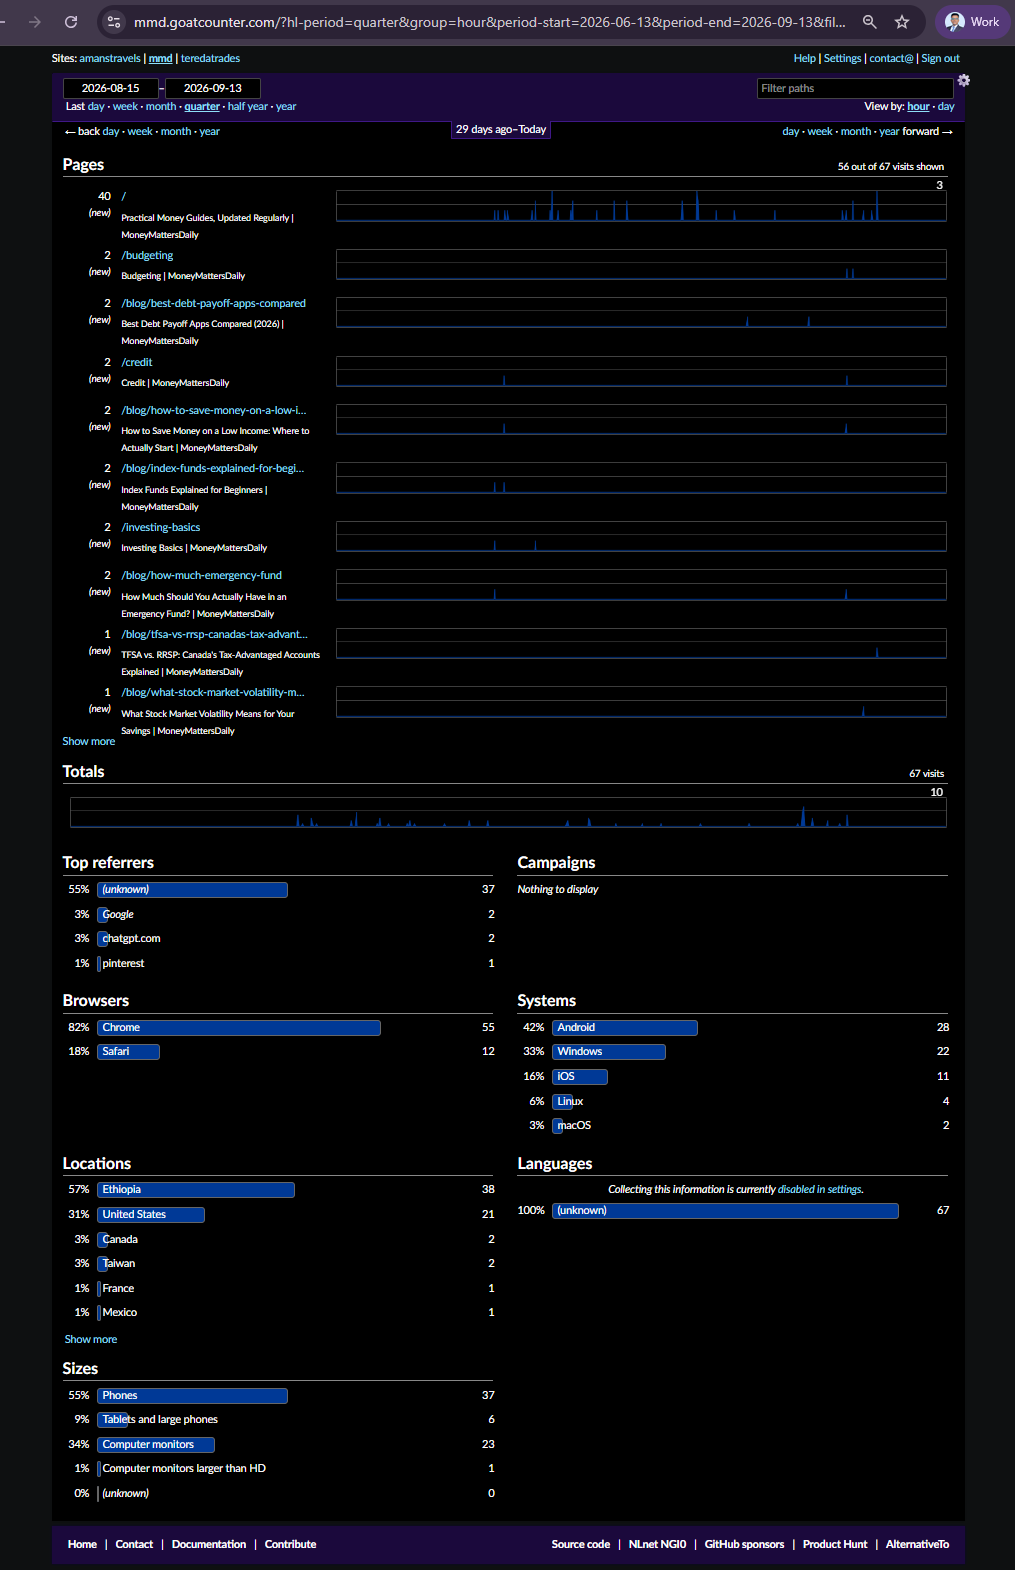
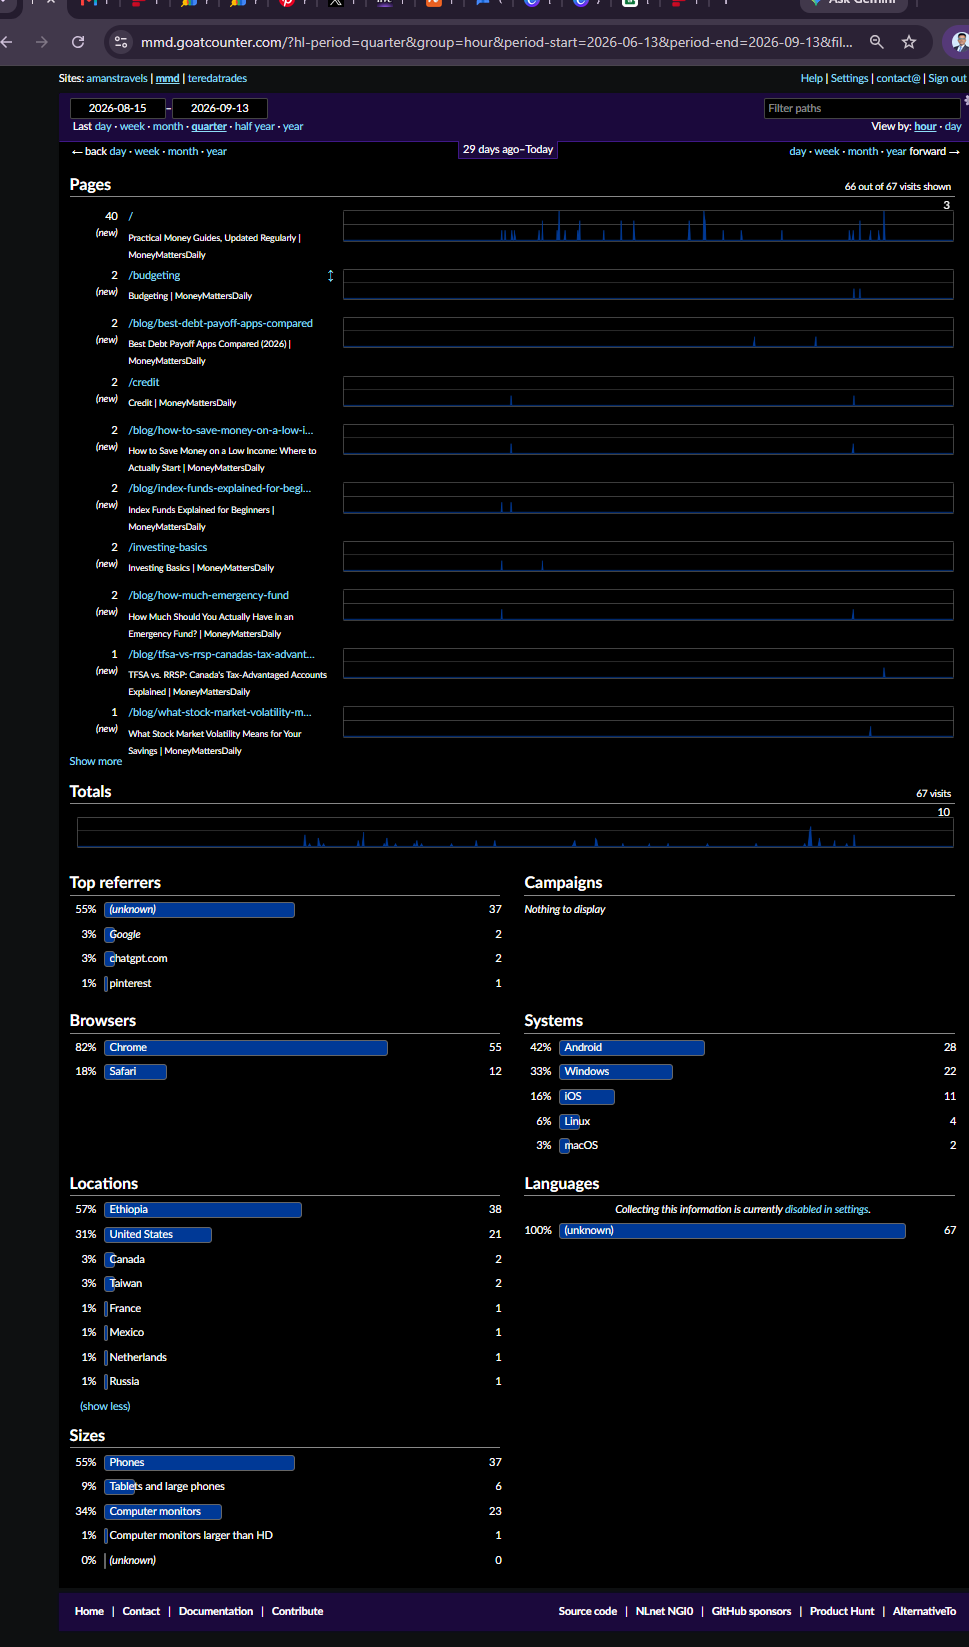
Analytics: replace week-4 screenshot with fuller-locations version, update summary

diff --git a/content-pipeline/analytics/2026-09-13-traffic-summary.md b/content-pipeline/analytics/2026-09-13-traffic-summary.md
@@ -17,7 +17,7 @@ Screenshot: `2026-09-13-goatcounter-traffic.png` in this folder.
 - `/blog/how-much-emergency-fund` — 2
 - `/blog/tfsa-vs-rrsp-canadas-tax-advantaged-accounts-explained` — 1
 - `/blog/what-stock-market-volatility-means-for-your-savings` — 1
-- (56 of 67 total visits shown across listed pages)
+- (66 of 67 total visits shown across listed pages)
 
 ## Top referrers
 - (unknown/direct) — 55% (37)
@@ -25,13 +25,15 @@ Screenshot: `2026-09-13-goatcounter-traffic.png` in this folder.
 - chatgpt.com — 3% (2)
 - Pinterest — 1% (1)
 
-## Locations
+## Locations (full list)
 - Ethiopia — 57% (38)
 - United States — 31% (21)
 - Canada — 3% (2)
 - Taiwan — 3% (2)
 - France — 1% (1)
 - Mexico — 1% (1)
+- Netherlands — 1% (1)
+- Russia — 1% (1)
 
 ## Browsers / Systems / Sizes
 - Chrome 82%, Safari 18%
@@ -39,6 +41,10 @@ Screenshot: `2026-09-13-goatcounter-traffic.png` in this folder.
 - Phones 55%, Computer monitors 34%, Tablets/large phones 9%, larger-than-HD monitors 1%
 
 ## Read
+- Screenshot updated to the fuller "show less" view (66 of 67 visits shown
+  across listed pages, all 8 locations visible) — same underlying data as
+  the first capture, just less truncated. Two new single-visit locations
+  visible now that weren't shown before: Netherlands and Russia.
 - Ethiopia has retaken the lead from the US (57% vs 31%), reversing the
   2026-09-06 snapshot where US had briefly overtaken it (43% vs 39%). Net
   effect over the two snapshots: the US/Ethiopia split still looks like it's
